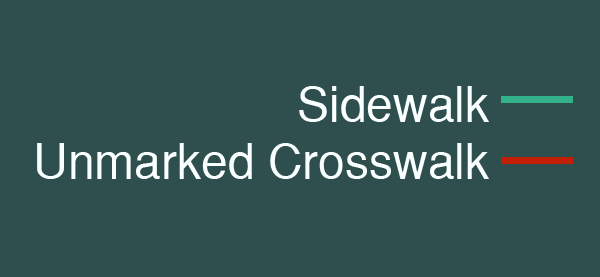
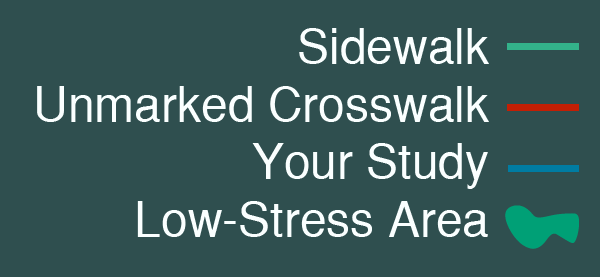
add new legends per mikes comments

diff --git a/src/components/Legends/Legend.js b/src/components/Legends/Legend.js
@@ -9,18 +9,21 @@ import sidewalkLegend from "../../assets/Artboard 2.png"
 function Legend({ connectionType }) {
 
   var legend = 'none'
+  var label = 'none'
   if (connectionType == 'bike') {
     legend = ltsLegend
+    label = "LTS represents Level of Traffic Stress for cyclists, with a '1' being the least stressful, and a '4' being the most stressful. Read more in the Getting Started Guide. Your study and the low-stress area are visible when you draw or view one of your studies."
   }
   else {
     legend = sidewalkLegend
+    label = "Sidewalks are shown in green, unmarked crosswalks are shown in red. Draw a study to see the low-stress area it would connect!Your study and the low-stress area are visible when you draw or view one of your studies."
   }
   return (
     <>
       <Tooltip
         multiline
         w={220}
-        label="LTS represents Level of Traffic Stress for cyclists, with a '1' being the least stressful, and a '4' being the most stressful. Read more in the Getting Started Guide.">
+        label={label}>
         <Image
           radius="md"
 
@@ -30,7 +33,7 @@ function Legend({ connectionType }) {
             bottom: 30,
             right: 10,
             zIndex: 100,
-            width: '200px',
+            width: '250px',
             height: 'auto',
           }}
         />
